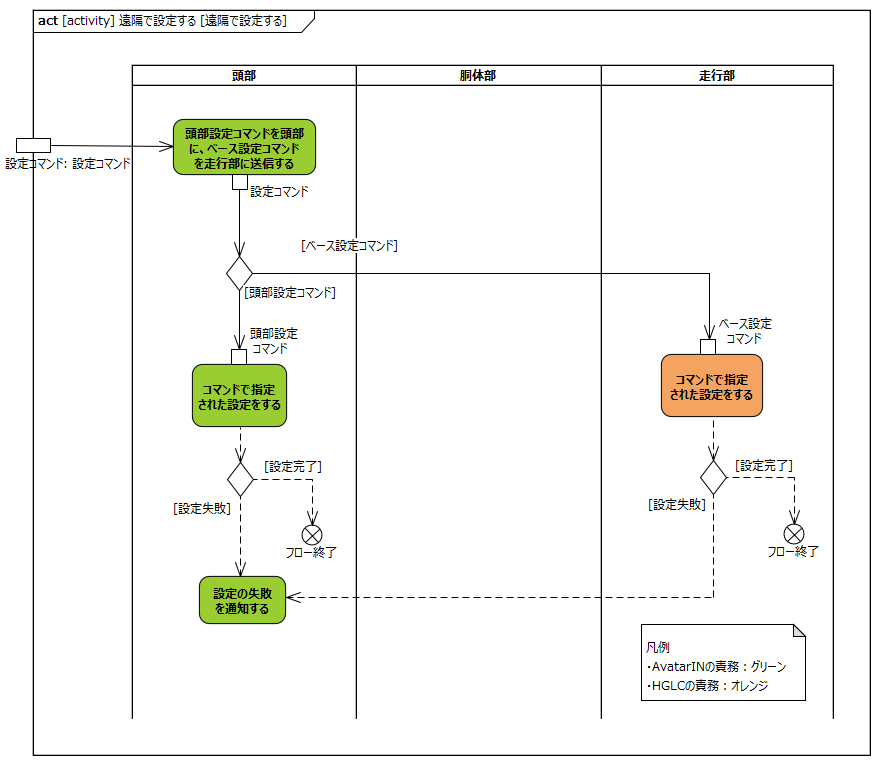
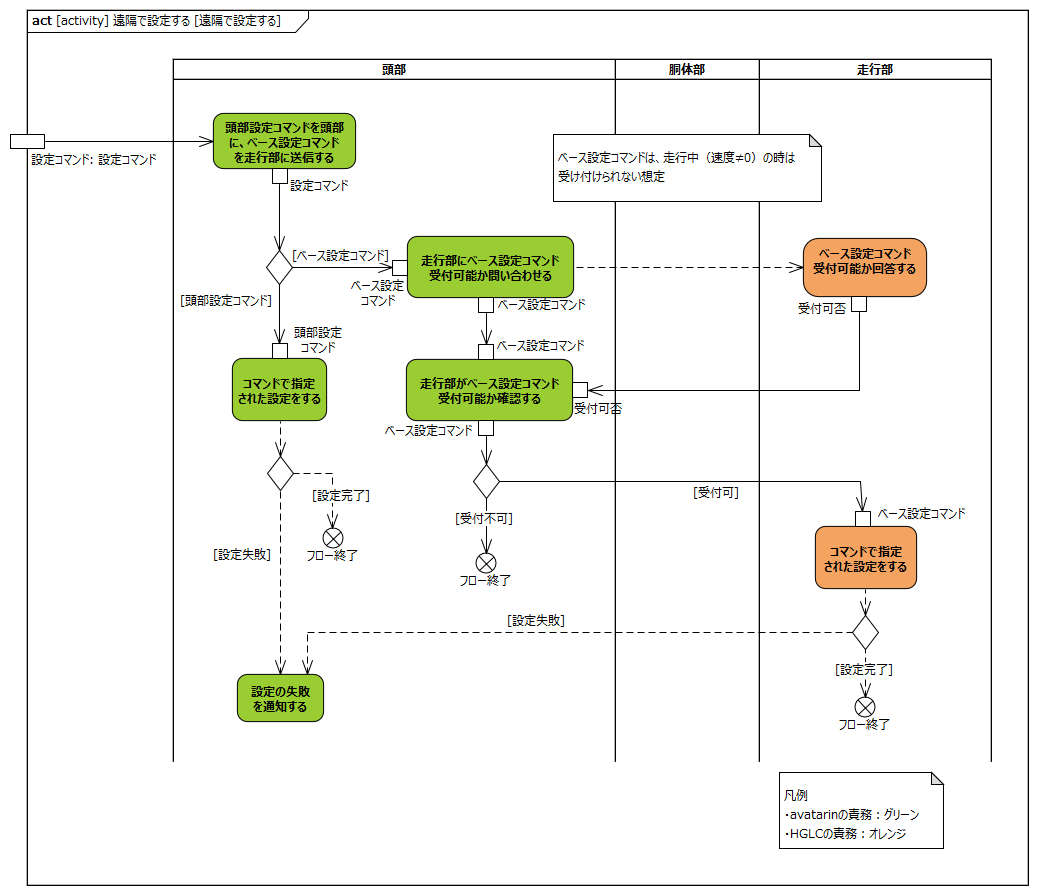
「遠隔で設定する」の定例会指摘事項/プルリク#13指摘事項対応 ・ベース設定コマンドの受付可否判定部分を修正

diff --git a/requirements/remote_setting.md b/requirements/remote_setting.md
@@ -1,3 +1,13 @@
+---
+title: テレプレゼンスロボット要求分析
+subtitle: 「遠隔で設定する」の要求詳細化
+author: 株式会社 豆蔵
+date: 2021年11月26日
+---
+<!-- ↑表紙ページのための情報 -->
+
+<div style="page-break-before:always"></div>
+
 # はじめに
 
 ## 本書の目的
@@ -43,7 +53,37 @@
 
 <div style="page-break-before:always"></div>
 
-## 走行部はベース設定コマンドで指定された設定をする
+## 頭部は頭部設定コマンドを頭部に、ベース設定コマンドに走行部に送信する
+
+avatarin側の責務のため、対象外とする。
+
+<div style="page-break-before:always"></div>
+
+## 頭部はベース設定コマンド受付可否を走行部に問い合わせる
+
+avatarin側の責務のため、対象外とする。
+
+<div style="page-break-before:always"></div>
+
+## 頭部はベース設定コマンド受付可の場合、ベース設定コマンドに走行部に送信する
+
+avatarin側の責務のため、対象外とする。
+
+<div style="page-break-before:always"></div>
+
+## 頭部は頭部設定コマンドで指定された設定をする
+
+avatarin側の責務のため、対象外とする。
+
+<div style="page-break-before:always"></div>
+
+## 頭部は設定に失敗した場合、その結果をアバタークラウドに返す
+
+avatarin側の責務のため、対象外とする。
+
+<div style="page-break-before:always"></div>
+
+## 走行部はベース設定コマンドを受付可能か回答する
 
 ![](.images/activity/remote_setting/act01.png)
 
@@ -51,22 +91,37 @@
 
 |要求|備考|
 |:---|:---|
-|Miimo Main ECUは受信したエリア検出設定の設定可否を判断し、avatarcoreに結果を送信する|エリア検出設定はavatarcoreのarea_settingを利用する想定|
-|Miimo Main ECUは設定可能と判断した場合、エリア検出設定を反映する||
-|Miimo Main ECUは最高速度設定の設定可否を判断し、avatarcoreに結果を送信する|最高速度設定はavatarcoreのspeed_dataを利用する設定|
-|Miimo Main ECUは設定可能と判断した場合、最高速度設定を反映する||
+|Miimo Main ECUはベース設定コマンドの受付可否を判定する|ベース設定コマンドは、走行中（速度≠0）の時は受け付けない想定|
+
+
+
+
+<div style="page-break-before:always"></div>
+
+## 走行部はベース設定コマンドで指定された設定をする
+
+![](.images/activity/remote_setting/act02.png)
+
+**L2要求抽出**
+
+|要求|備考|
+|:---|:---|
+|Miimo Main ECUは受信したエリア検出設定を反映し、avatarcoreに結果を送信する|・エリア検出設定はavatarcoreのarea_settingを利用する想定<br/>※1|
+|Miimo Main ECUは受信した最高速度設定を反映し、avatarcoreに結果を送信する|最高速度設定はavatarcoreのspeed_dataを利用する設定<br/>※1|
+
+※1:頭部側で受付可否をチェックする想定ではあるが、設定失敗のケースを考慮
 
 <div style="page-break-before:always"></div>
 
 ## 走行部は設定に失敗した場合、その結果を頭部に通知する
 
-![](.images/activity/remote_setting/act02.png)
+![](.images/activity/remote_setting/act03.png)
 
 
 **L2要求抽出**
 
 |要求|備考|
 |:---|:---|
-|―――|　「ベース設定コマンドで指定された設定をする」内で実施|
+|→L2要求としては「ベース設定コマンドで指定された設定をする」内で実施||
 
 <div style="page-break-before:always"></div>

diff --git a/requirements/requirement.md b/requirements/requirement.md
@@ -2,7 +2,7 @@
 title: テレプレゼンスロボット要求分析
 subtitle: L0/L1要求抽出
 author: 株式会社 豆蔵
-date: 2021年11月22日
+date: 2021年11月26日
 ---
 <!-- ↑表紙ページのための情報 -->
 
@@ -1279,8 +1279,11 @@ YES動作コマンドは首垂直動作に依存し、NO動作コマンドは首
 |要求|備考|
 |:---|:---|
 |頭部は頭部設定コマンドを頭部に、ベース設定コマンドに走行部に送信する||
+|頭部はベース設定コマンド受付可否を走行部に問い合わせる||
+|頭部はベース設定コマンド受付可の場合、ベース設定コマンドに走行部に送信する。受付不可の場合、コマンドを破棄する||
 |頭部は頭部設定コマンドで指定された設定をする||
-|頭部は設定に失敗した場合、その結果をアバタークラウドに返す|
+|頭部は設定に失敗した場合、その結果をアバタークラウドに返す||
+|走行部はベース設定コマンドを受付可能か回答する|ベース設定コマンドは、走行中（速度≠0）の時は受け付けない想定|
 |走行部はベース設定コマンドで指定された設定をする||
 |走行部は設定に失敗した場合、その結果を頭部に通知する||
 
